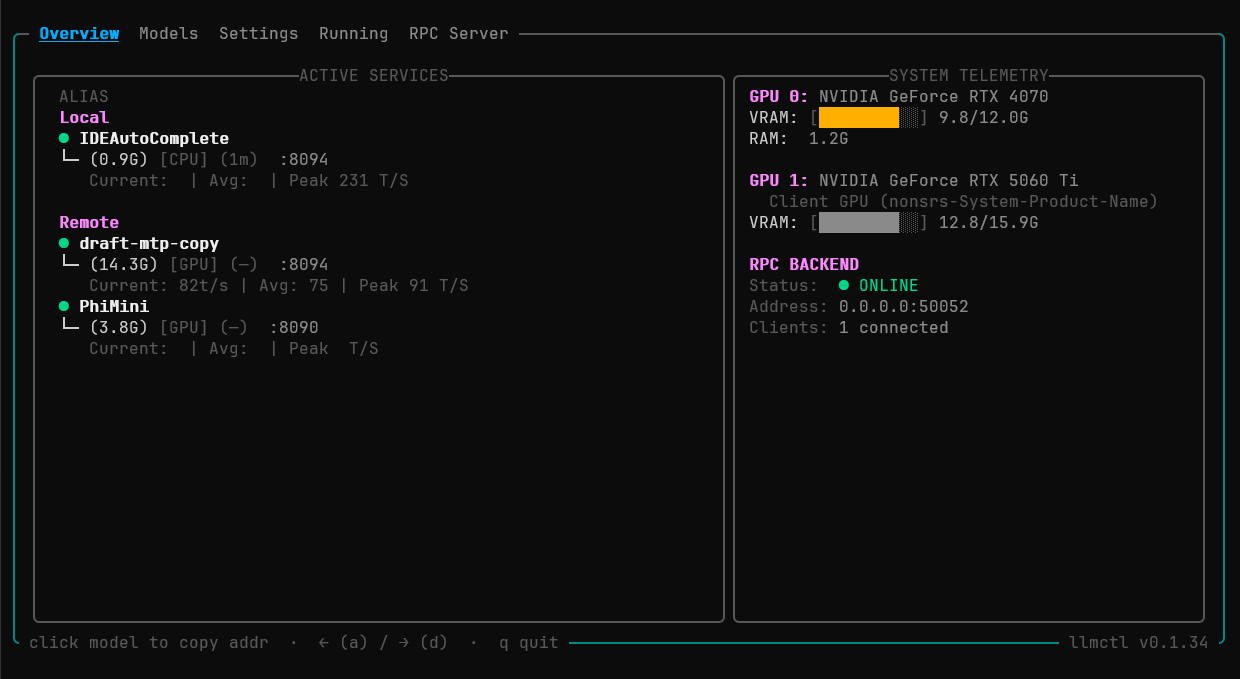
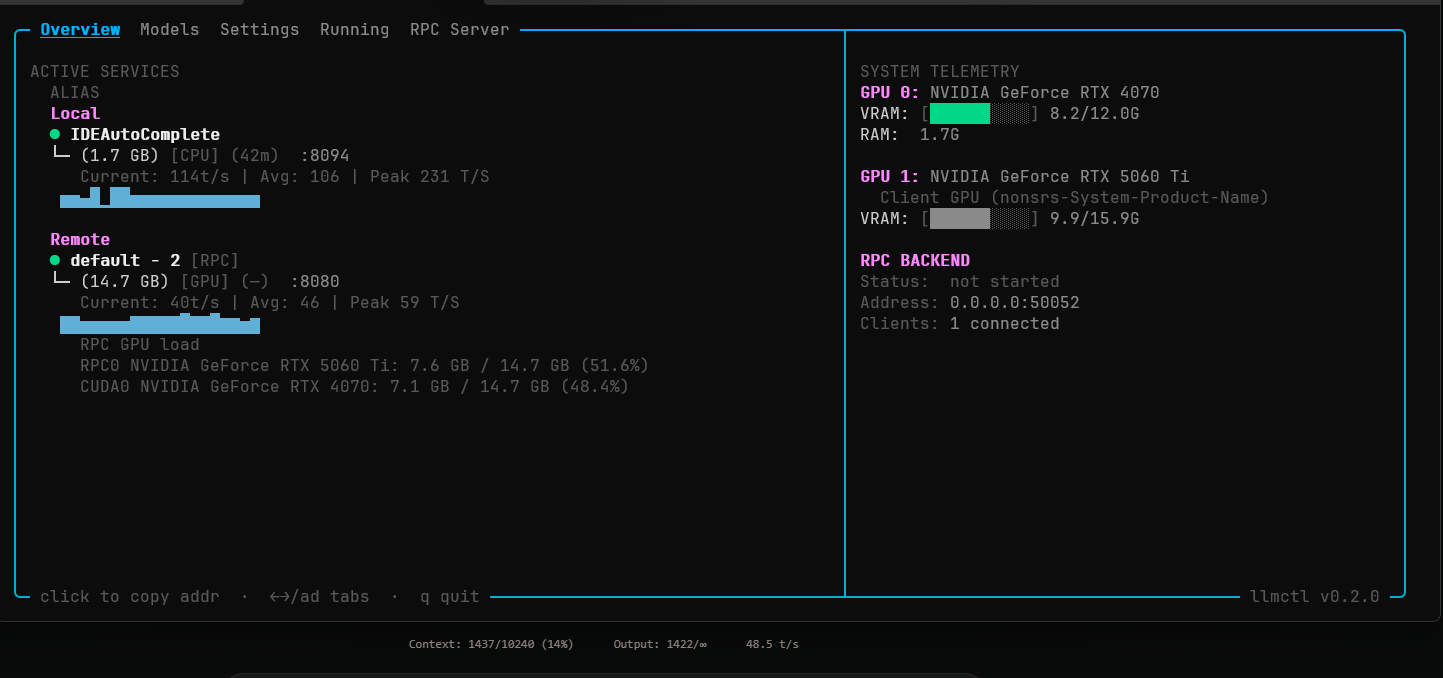
Refresh docs for status server and RPC

diff --git a/internal/statusserver/dashboard.html b/internal/statusserver/dashboard.html
@@ -1043,7 +1043,7 @@
         if ((Number(run.ram_mib) || 0) > 0) {
           trendCards.push(trendCard('RAM Used', ramSeries, '#34d399', null, null, 'MiB', false));
         }
-        trendCards.push(trendCard('Tok/s', series, '#7dd3fc', null));
+        trendCards.push(trendCard('Tok/s', series, '#7dd3fc', null, null, '', true, false));
         const trendSummary = `
           <div class="model-trends">
             ${gpuCards}
@@ -1088,7 +1088,8 @@
 
     function trendCard(label, series, color, subtitle, valueText = null, unit = 'MiB', showChart = true, showYAxis = false) {
       const current = series.length ? series[series.length - 1] : 0;
-      const value = valueText || (unit === '%' ? `${fmtNum(current)}%` : label.includes('tok/s') ? fmtNum(current) : fmtMiB(current));
+      const lower = String(label || '').toLowerCase();
+      const value = valueText || (unit === '%' ? `${fmtNum(current)}%` : lower.includes('tok/s') ? fmtNum(current) : fmtMiB(current));
       return `
         <article class="trend-card">
           <div class="label">${label}</div>

diff --git a/internal/process/process_test.go b/internal/process/process_test.go
@@ -223,6 +223,19 @@ func TestBuildArgs(t *testing.T) {
 	}
 }
 
+func TestBuildStartArgsAddsVerboseAlways(t *testing.T) {
+	model := models.Model{Path: "/m.gguf"}
+	profile := models.Profile{Port: 8080}
+
+	got := buildStartArgs(model, profile, "")
+	if !slices.Contains(got, "-v") {
+		t.Fatalf("expected start args to include -v, got %v", got)
+	}
+	if slices.Contains(got, "--rpc") {
+		t.Fatalf("expected non-RPC start args not to include --rpc, got %v", got)
+	}
+}
+
 func TestBuildStartArgsAddsVerboseForRPC(t *testing.T) {
 	model := models.Model{Path: "/m.gguf"}
 	profile := models.Profile{Port: 8080}

diff --git a/internal/process/process.go b/internal/process/process.go
@@ -163,7 +163,7 @@ func BuildArgs(m models.Model, p models.Profile) []string {
 
 func buildStartArgs(m models.Model, p models.Profile, rpcEndpoint string) []string {
 	args := BuildArgs(m, p)
-	if rpcEndpoint != "" && !hasArg(args, "-v") && !hasArg(args, "--verbose") {
+	if !hasArg(args, "-v") && !hasArg(args, "--verbose") {
 		args = append(args, "-v")
 	}
 	if rpcEndpoint != "" {

diff --git a/docs/guides/status-server.md b/docs/guides/status-server.md
@@ -1,63 +1,29 @@
 # Status Server
 
-The status server is llmctl's lightweight runtime surface for browser and JSON access. It exposes the current running instances, health state, VRAM usage, tok/s, RPC client snapshots, and a small bounded history for charting.
+The status server is llmctl's lightweight JSON and browser monitoring surface.
+It is independent from RPC, so you can run the dashboard and history store without
+enabling distributed GPU mode.
 
----
-
-## What It Exposes
-
-The server serves:
+## What it exposes
 
 - `GET /status` for the current snapshot
 - `GET /history` for recent snapshots
-- `GET /dashboard` for the browser view when dashboard serving is enabled
+- `GET /dashboard` for the browser dashboard when enabled
+- `GET /` redirects to `/dashboard` when the dashboard is enabled, otherwise to `/status`
 
-`/status` remains the source of truth for the live state. `/history` is what the dashboard uses to draw charts.
+`/status` is the live source of truth. `/history` powers the dashboard charts.
 
-When history persistence is enabled, llmctl stores those samples in `~/.llmctl/status_history.json` and restores them on restart.
+![Browser dashboard showing source selector, active models, and trend cards](../assets/screenshots/dashboard.png)
 
-The dashboard also includes model and profile filters, a time-range control, and health-change coloring so you can zoom into one run or compare several at once.
+## Settings
 
-The browser dashboard is off by default for new configs. You can enable or disable it from the Status Server settings while keeping `/status` and `/history` available for JSON and remote-client use.
+- Status server enable/disable
+- Host and port
+- History persistence
+- Dashboard serving
 
-You can also ask the CLI for the local instance list:
-
-```bash
-llmctl status
-llmctl status --json
-```
-
-The plain-text form is handy for a terminal check. The JSON form is better for scripts.
-
----
-
-## Why It Exists
-
-The status server is mainly used for two things:
-
-- RPC client discovery
-- External monitoring or automation
-
-The browser dashboard is the built-in monitoring view for this same server.
-
-In RPC mode, a client polls the server's status address, discovers the RPC endpoint, and shows the remote GPU telemetry in its own Overview tab.
-
----
-
-## How To Read It In The TUI
-
-The Overview tab is the human-friendly view of the status server snapshot:
-
-- Local running instances appear under `Local`
-- Remote client snapshots appear under `Remote`
-- GPU 0 shows local telemetry
-- GPU 1 shows remote telemetry when RPC is connected
-
-That means you usually do not need to hit `/status` by hand unless you're integrating llmctl with another tool.
-
-If you want a browser view, open the same host and port at `/dashboard` while dashboard serving is enabled. The page reads `/status` and `/history` from the same server.
-
----
+History persistence stores samples in `~/.llmctl/status_history.json` and restores
+them on restart when enabled.
 
 ## Example
 
@@ -65,4 +31,4 @@ If you want a browser view, open the same host and port at `/dashboard` while da
 curl http://127.0.0.1:11435/status
 ```
 
-Use the actual host and port shown in your llmctl settings or RPC server tab.
+Use the host and port shown in llmctl settings.

diff --git a/docs/guides/rpc.md b/docs/guides/rpc.md
@@ -1,6 +1,8 @@
 # Distributed GPU with RPC
 
-RPC mode lets you pool GPU resources across two machines. One machine contributes its GPU over the network; the other runs the model and offloads some layers to it - effectively running a model larger than either machine could hold alone.
+RPC mode lets you pool GPU resources across two machines. One machine contributes
+its GPU over the network; the other runs the model and offloads some layers to it,
+effectively running a model larger than either machine could hold alone.
 
 ---
 
@@ -21,19 +23,23 @@ RPC mode lets you pool GPU resources across two machines. One machine contribute
 
 llmctl wraps [llama.cpp's RPC backend](https://github.com/ggerganov/llama.cpp/tree/master/examples/rpc). The setup is two roles:
 
-**RPC server machine** - starts a `ggml-rpc-server` process that exposes its GPU over the network. It doesn't run any models itself; it just provides VRAM capacity.
+**RPC server machine** - starts a `ggml-rpc-server` process that exposes its GPU over the network. It doesn't run models itself; it just provides VRAM capacity.
 
 **RPC client machine** - runs `llama-server` with some layers offloaded to the RPC server. From the model's perspective, it has access to both GPUs. This machine also runs llmctl normally.
 
 Only the client machine needs llmctl. The server machine only needs the `ggml-rpc-server` binary (and optionally llmctl to manage it).
+
+RPC mode is separate from the local status server. You can enable the status server
+and dashboard without RPC, or run RPC without turning on the browser dashboard.
 
 ---
 
 ## Prerequisites
 
 Both machines need:
-- The same version of `llama-server` / `ggml-rpc-server` - mismatched versions are the most common source of connection failures, YMMV.
-- Network connectivity between them - they need to reach each other on the RPC port (default `50052`) and the status server port (default `11435`)
+
+- The same version of `llama-server` / `ggml-rpc-server` - mismatched versions are the most common source of connection failures.
+- Network connectivity between them - they need to reach each other on the RPC port (default `50052`).
 
 ---
 
@@ -43,7 +49,7 @@ On the machine that will contribute its GPU:
 
 1. Open llmctl and go to **Settings**
 2. Enable **RPC mode** and set it to **Server**
-3. Optionally configure the bind host and port (defaults work for most setups)
+3. Optionally configure the bind host and port
 4. Go to the **RPC Server** tab
 
 ![RPC Server start modal in server mode](../assets/screenshots/rpcserverstartmodal.png)
@@ -80,6 +86,8 @@ Switch to the **Overview** tab. Under **System Telemetry**, you'll see:
 
 ![Overview tab with local and remote telemetry populated](../assets/screenshots/concepts-overview-populated.png)
 
+If the model is split across GPUs, the Overview and dashboard also show per-GPU model-load slices once the startup log has been parsed.
+
 If GPU 1 doesn't appear, the client hasn't successfully connected yet - see [Troubleshooting](#troubleshooting) below.
 
 ---
@@ -88,9 +96,9 @@ If GPU 1 doesn't appear, the client hasn't successfully connected yet - see [Tro
 
 Create or select a profile on the client machine. With RPC connected, `llama-server` automatically uses the remote GPU for the layers you've allocated.
 
-The number of GPU layers in your profile is split across both GPUs - llama.cpp decides the distribution based on available VRAM. Load time will be slightly longer than local-only because weights are transferred over the network, but generation speed is typically close to having both GPUs locally.
+The number of GPU layers in your profile is split across both GPUs. llama.cpp decides the distribution based on available VRAM. Load time will be slightly longer than local-only because weights are transferred over the network, but generation speed is typically close to having both GPUs locally.
 
-Once running, the **Overview** tab on the server machine (if it's also running llmctl) will show the client's running instances under **Remote** in Active Services.
+Once running, the **Overview** tab on the server machine (if it's also running llmctl) will show the client's running instances under **Remote** in Active Services. The browser dashboard uses the same data.
 
 ---
 

diff --git a/docs/reference/config-schema.md b/docs/reference/config-schema.md
@@ -11,6 +11,13 @@ If you do need to inspect the file, the important top-level areas are:
 - Status server settings - enable flag, bind settings, dashboard toggle, and history persistence toggle
 - Network settings - saved internet and RPC interface names on Linux
 
+The key split is:
+
+- `rpc_enabled` and `rpc_mode` control distributed GPU transport
+- `status_server_enabled` controls the local JSON/dashboard server
+- `status_history_persist` controls history persistence
+- `status_dashboard_enabled` controls whether `/dashboard` is served
+
 ---
 
 ## Typical Shape
@@ -31,6 +38,13 @@ models:
 status_history_persist: true
 status_dashboard_enabled: false
 ```
+
+Notes:
+
+- `status_server_enabled` is independent from `rpc_enabled`
+- `status_history_persist` defaults to `true`
+- `status_dashboard_enabled` defaults to `false`
+- The dashboard is read-only monitoring only
 
 ---
 

diff --git a/docs/reference/tui.md b/docs/reference/tui.md
@@ -69,11 +69,13 @@ Tabs cycle left-to-right. Overview is the leftmost tab and the default on launch
 
 The at-a-glance dashboard. Read-only — no cursor navigation within it.
 
-![Overview tab with Active Services and System Telemetry boxes](../assets/screenshots/overview-tab.png)
+![Overview tab with Active Services and System Telemetry boxes](../assets/screenshots/concepts-overview-populated.png)
 
 ### Active Services box (left)
 
 Lists every running inference instance on this machine under **Local**, and any running instances on connected RPC client machines under **Remote** (only shown when clients have active models).
+
+RPC-backed runs can also show per-GPU model-load slices so the Overview screen reflects how the model is split across local and remote GPUs.
 
 Each entry is three lines (or five lines on narrow terminals):
 
@@ -118,6 +120,8 @@ On **narrow terminals** (active services box width below 50 chars), port is hidd
 | RPC BACKEND | Status (ONLINE / OFFLINE / not started), address, client count |
 
 VRAM labels wrap to the next line if the box is too narrow to fit on one line.
+
+The browser dashboard uses the same source and per-GPU telemetry model as the Overview tab, so both views should tell the same story.
 
 ---
 
@@ -209,6 +213,8 @@ Shown when RPC is enabled. Fields differ by mode:
 **Client mode:**
 - Remote status server address (`host:port`) — the server machine's status server URL
 - RPC endpoint (auto-discovered, or set manually)
+
+The Status Server section is separate from RPC, so local monitoring and the browser dashboard can run without distributed GPU mode.
 
 ### Network Interface (Linux only)
 

diff --git a/docs/reference/cli.md b/docs/reference/cli.md
@@ -50,10 +50,3 @@ llmctl is primarily a TUI application, but it also ships a small command-line su
 | `llmctl network --rpc-conn <name>` | Override the saved RPC connection name |
 | `llmctl network --iface <name>` | Override the interface used by `status` |
 
----
-
-## Notes
-
-- `llmctl` prints friendly text output by default.
-- Use `--json` only where the command supports it.
-- If you just want to use the app normally, start with the TUI.